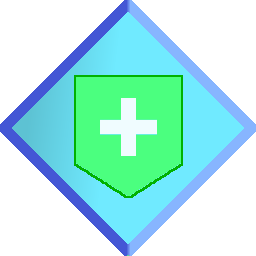
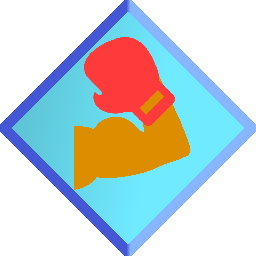
【回復量増加パッシブの廃止】

Changed region(s): [[0.2812, 0.125, 0.75, 0.7812]]

diff --git a/SourceCode/gamesystem/scene/GameStateManager.cpp b/SourceCode/gamesystem/scene/GameStateManager.cpp
@@ -133,6 +133,12 @@ void GameStateManager::Update() {
 
 		if (Helper::CheckMin(m_CounterTimer, 20, 1)) {		//一定フレームでカウンター終了
 			m_Counter = false;
+			if (m_CounterBuff&& !m_Buff) {
+				for (int i = 0; i < 2; i++) {
+					RandPowerUpInit();
+				}
+				BirthBuff();				SetPassiveActive((int)Passive::ABILITY::COUNTER_BUFF);
+			}
 			onomatope->AddOnomato(Counter, { 640.f,660.f });
 			m_CounterTimer = {};
 		}
@@ -451,10 +457,7 @@ void GameStateManager::UseSkill() {
 			}
 		} else if (m_Act[0].SkillType == 1) {
 			if (m_Act[0].StateName == "NEXT") {
-				for (int i = 0; i < 2; i++) {
-					RandPowerUpInit();
-				}
-				BirthBuff();
+
 				onomatope->AddOnomato(AttackCharge, { 340.f,360.f });
 			}
 			else if (m_Act[0].StateName == "RANDOM") {
@@ -564,8 +567,8 @@ void GameStateManager::PassiveCheck() {
 		case Passive::ABILITY::POISON_DAMAGEUP:
 			m_IsVenom = true;
 			break;
-		case Passive::ABILITY::DRAIN_HEALUP:
-			m_IsDrainUp = true;
+		case Passive::ABILITY::COUNTER_BUFF:
+			m_CounterBuff = true;
 			break;
 		case Passive::ABILITY::RELOAD_DAMAGE:
 			m_IsReloadDamage = true;

diff --git a/SourceCode/gamesystem/scene/GameStateManager.h b/SourceCode/gamesystem/scene/GameStateManager.h
@@ -140,6 +140,9 @@ public:
 	void SetIsHeal(bool flag) { m_Heal = flag; }
 	bool GetIsHeal() { return m_Heal; }
 
+	void SetCounterBuff(bool flag) { m_CounterBuff = flag; }
+	bool GetCounterBuff() { return m_CounterBuff; }
+
 	void SetGameStart(bool GameStart) { m_GameStart = GameStart;}
 	bool GetGameStart() { return m_GameStart; }
 
@@ -218,7 +221,7 @@ private:
 	std::list<DamageEffect> damages;
 
 	std::list<std::unique_ptr<Passive>> GotPassives;
-	std::vector <int> m_StartPassive= { };
+	std::vector <int> m_StartPassive= { 5 };
 	std::vector<int> GotPassiveIDs = m_StartPassive;
 	std::vector<int> NotPassiveIDs;
 
@@ -246,7 +249,7 @@ private:
 	bool m_Counter = false;
 	int m_CounterTimer = {};
 	int m_CounterCount = {};
-
+	bool m_CounterBuff = false;
 	//位置のスコア
 	int m_PosScore = {};
 
@@ -277,7 +280,6 @@ private:
 	bool m_Heal = false;
 	bool m_poizonLong = false;
 	bool m_IsVenom = false;
-	bool m_IsDrainUp = false;
 	bool m_FivePower = false;
 	bool m_TakenDamageUp = false;
 	bool m_AttackedPoison = false;

diff --git a/SourceCode/gamesystem/text/TextManager.cpp b/SourceCode/gamesystem/text/TextManager.cpp
@@ -51,8 +51,8 @@ void TextManager::Initialize(DirectXCommon* dxcomon)
 	CreatePassiveSentence(L"毒の時間が長くなるぞ");
 	CreatePassiveName(L"なまえ：ポイズン・クリティカル");
 	CreatePassiveSentence(L"毒のカウントふよりつが2倍");
-	CreatePassiveName(L"なまえ：アテナシステム");
-	CreatePassiveSentence(L"回復りょうが少し上がるぞ");
+	CreatePassiveName(L"なまえ：カウンターブロー");
+	CreatePassiveSentence(L"カウンターしたらバフがつくぞ！");
 	CreatePassiveName(L"なまえ：オートマティックアサシン");
 	CreatePassiveSentence(L"リロードしたらたまに攻撃だ");
 	CreatePassiveName(L"なまえ：テイク・ファイブ");

diff --git a/SourceCode/gamesystem/character/InterEnemy.h b/SourceCode/gamesystem/character/InterEnemy.h
@@ -101,7 +101,6 @@ protected:
 	bool m_PoisonLong = false;
 	bool m_IsVenom = false;
 	int m_PoisonToken = 0;
-	bool m_IsDrainUp = false;
 	int m_PoisonTimer = {};
 	bool m_Alive = true;
 	bool m_Death = false;
@@ -145,7 +144,6 @@ public://getter setter
 	
 	void SetPoizonLong(bool isPoison) { m_PoisonLong = isPoison; }
 	void SetPoizonVenom(bool isPoison) { m_IsVenom = isPoison; }
-	void SetDrainUp(bool IsDrainUp) { m_IsDrainUp = IsDrainUp; }
 	void SetLastEnemy(bool LastEnemy) { m_LastEnemy = LastEnemy; }
 	static void SetPlayer(Player* player) { InterEnemy::player = player; }
 	void SetHealDamage(bool HealDamage) { m_HealDamage = HealDamage; }

diff --git a/SourceCode/gamesystem/character/InterEnemy.cpp b/SourceCode/gamesystem/character/InterEnemy.cpp
@@ -294,10 +294,6 @@ void InterEnemy::Collide(vector<unique_ptr<AttackArea>>& area) {
 
 			if (name == "DRAIN") {
 				float rate = 0.5f;
-				if (m_IsDrainUp) {
-					rate += 0.2f;
-					GameStateManager::GetInstance()->SetPassiveActive((int)Passive::ABILITY::DRAIN_HEALUP);
-				}
 				player->HealPlayer(damage * rate);		//HP回復
 			} else if (name == "POISON") {
 				m_Poison = true;

diff --git a/SourceCode/gamesystem/character/Player.cpp b/SourceCode/gamesystem/character/Player.cpp
@@ -180,10 +180,8 @@ void Player::Update() {
 					OldHpPercent() * m_HPSize.x,
 					m_HPSize.y };
 				hpDiftex->SetSize({
-					Ease(In,Quad,0.2f,size_s.x,size_e.x),
+					Ease(In,Quad,0.4f,size_s.x,size_e.x),
 					m_HPSize.y });
-			} else {
-
 			}
 		}
 		hptex->SetSize({ HpPercent() * m_HPSize.x,m_HPSize.y });

diff --git a/SourceCode/gamesystem/character/EnemyManager.cpp b/SourceCode/gamesystem/character/EnemyManager.cpp
@@ -124,11 +124,6 @@ void EnemyManager::PoizonVenom() {
 	}
 }
 
-void EnemyManager::DrainHealUp() {
-	for (unique_ptr<InterEnemy>& enemy : enemys) {
-		enemy->SetDrainUp(true);
-	}
-}
 
 void EnemyManager::ReLoadDamage() {
 	for (unique_ptr<InterEnemy>& enemy : enemys) {

diff --git a/SourceCode/gamesystem/skill/Passive.h b/SourceCode/gamesystem/skill/Passive.h
@@ -16,7 +16,7 @@ public:
 		RELOAD_LOCK,
 		POISON_GAUGEUP,
 		POISON_DAMAGEUP,
-		DRAIN_HEALUP,
+		COUNTER_BUFF,
 		RELOAD_DAMAGE,
 		FIVE_POWER,
 		TAKENDAMAGEUP,
